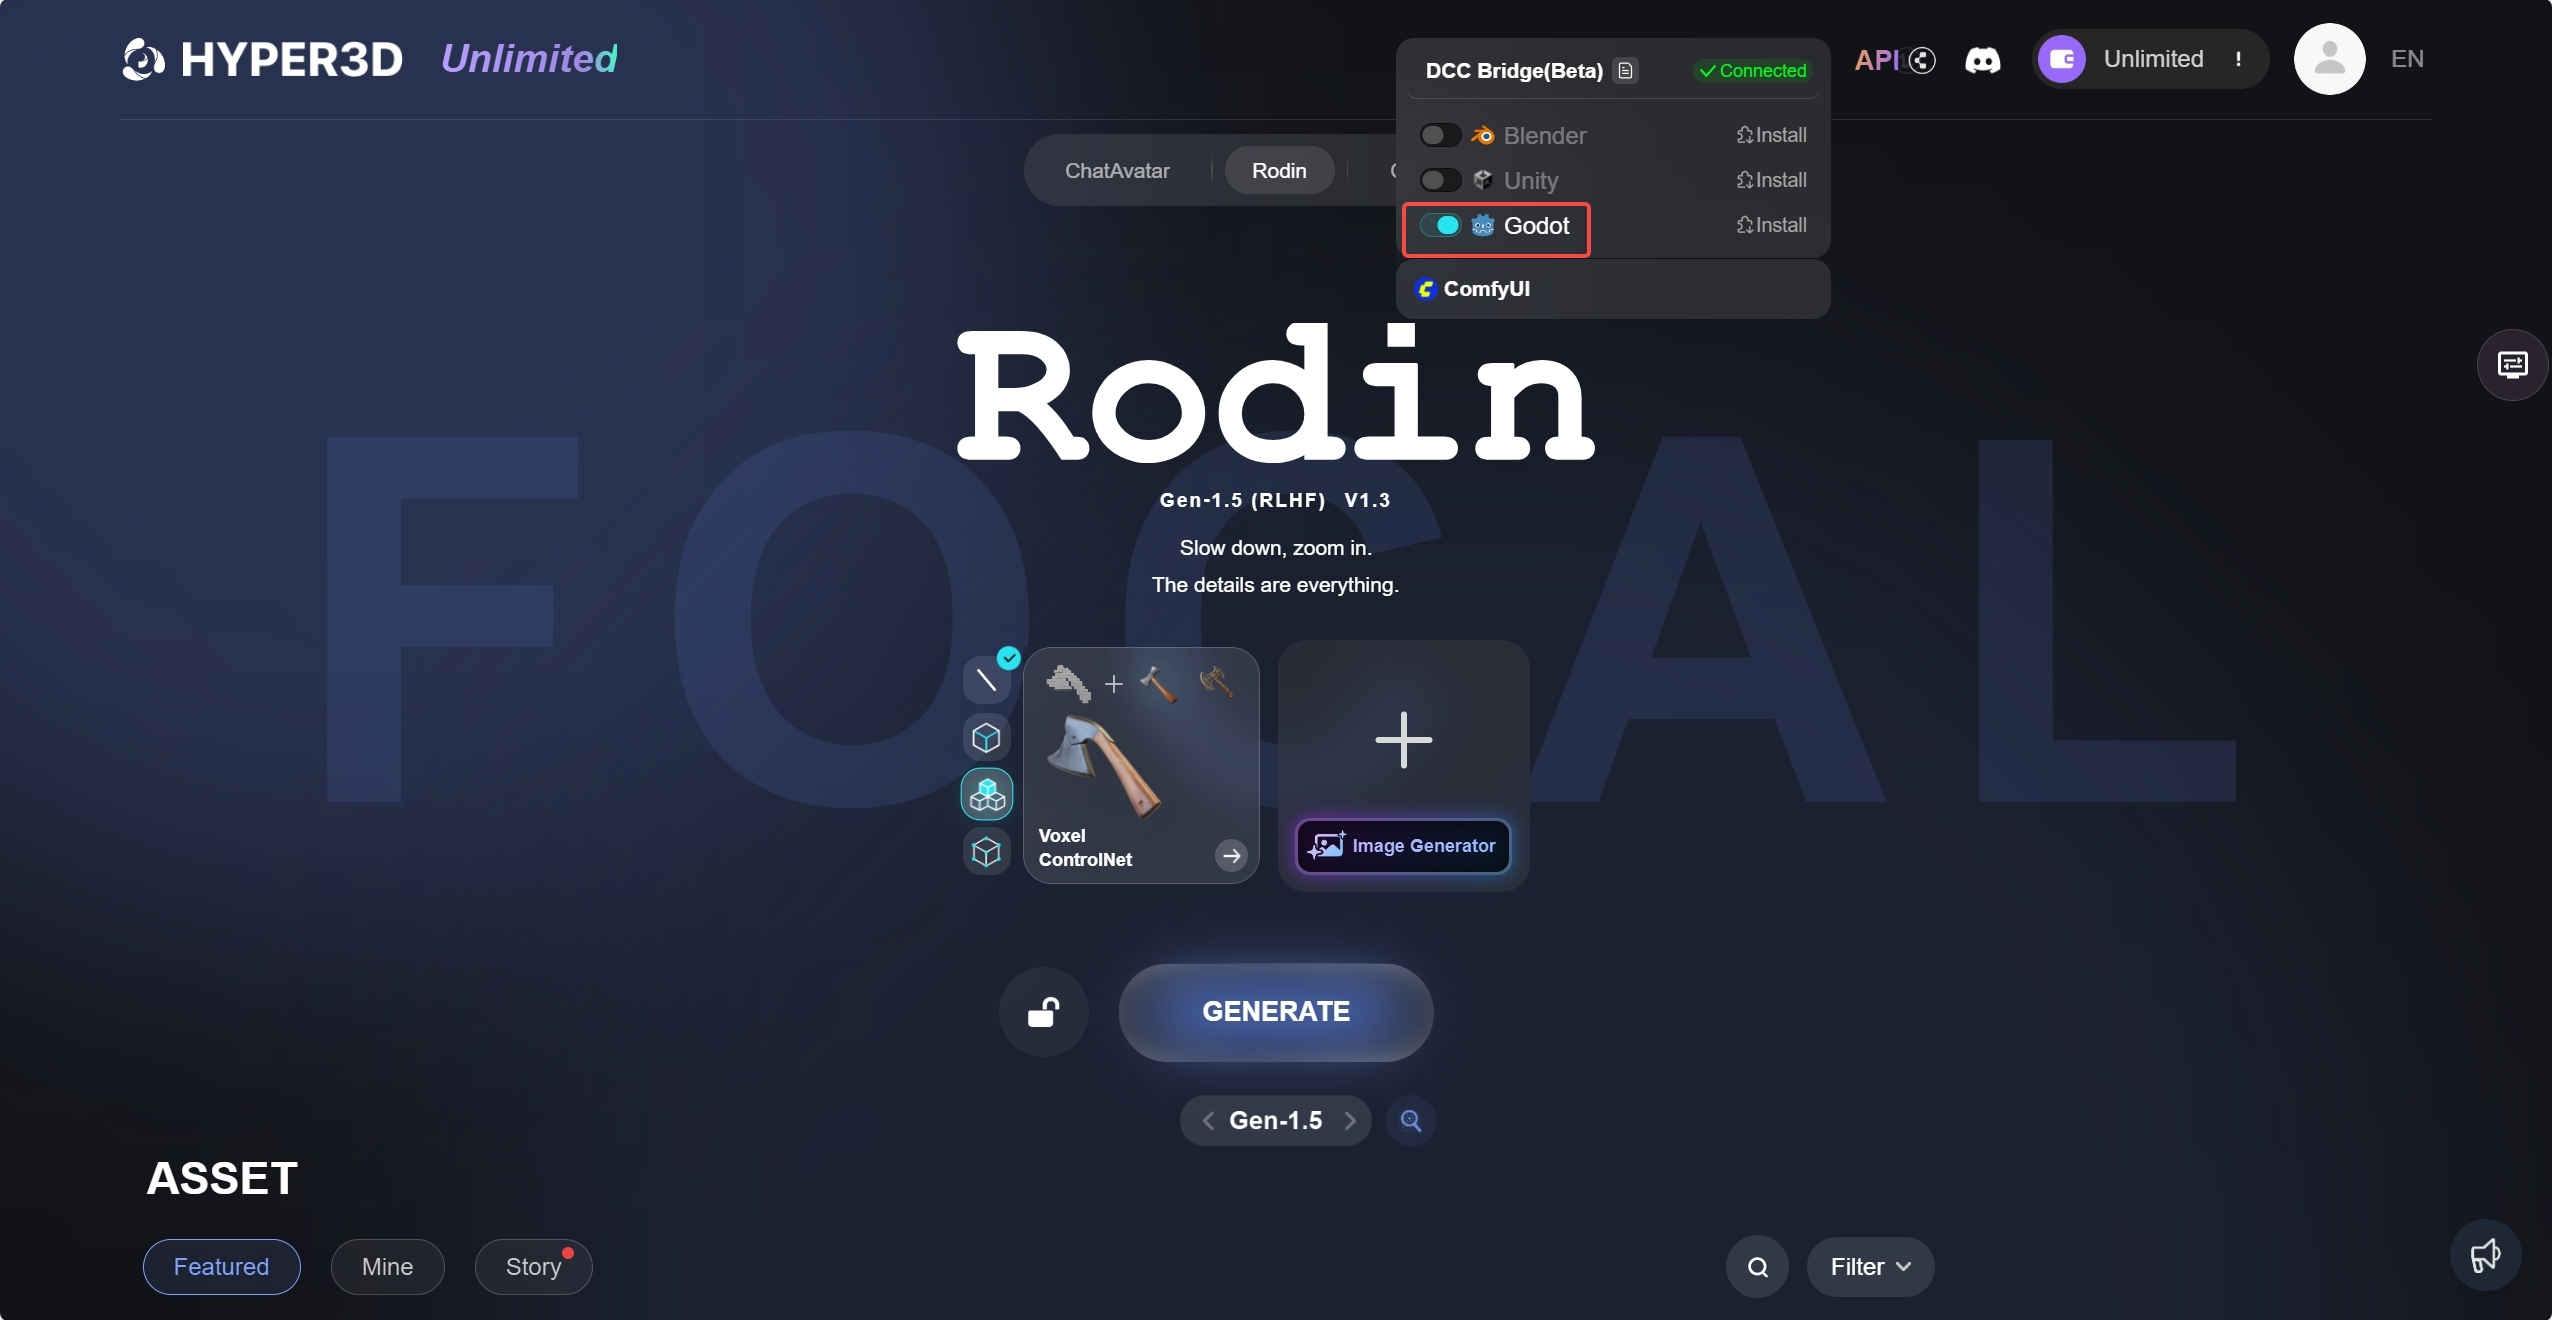
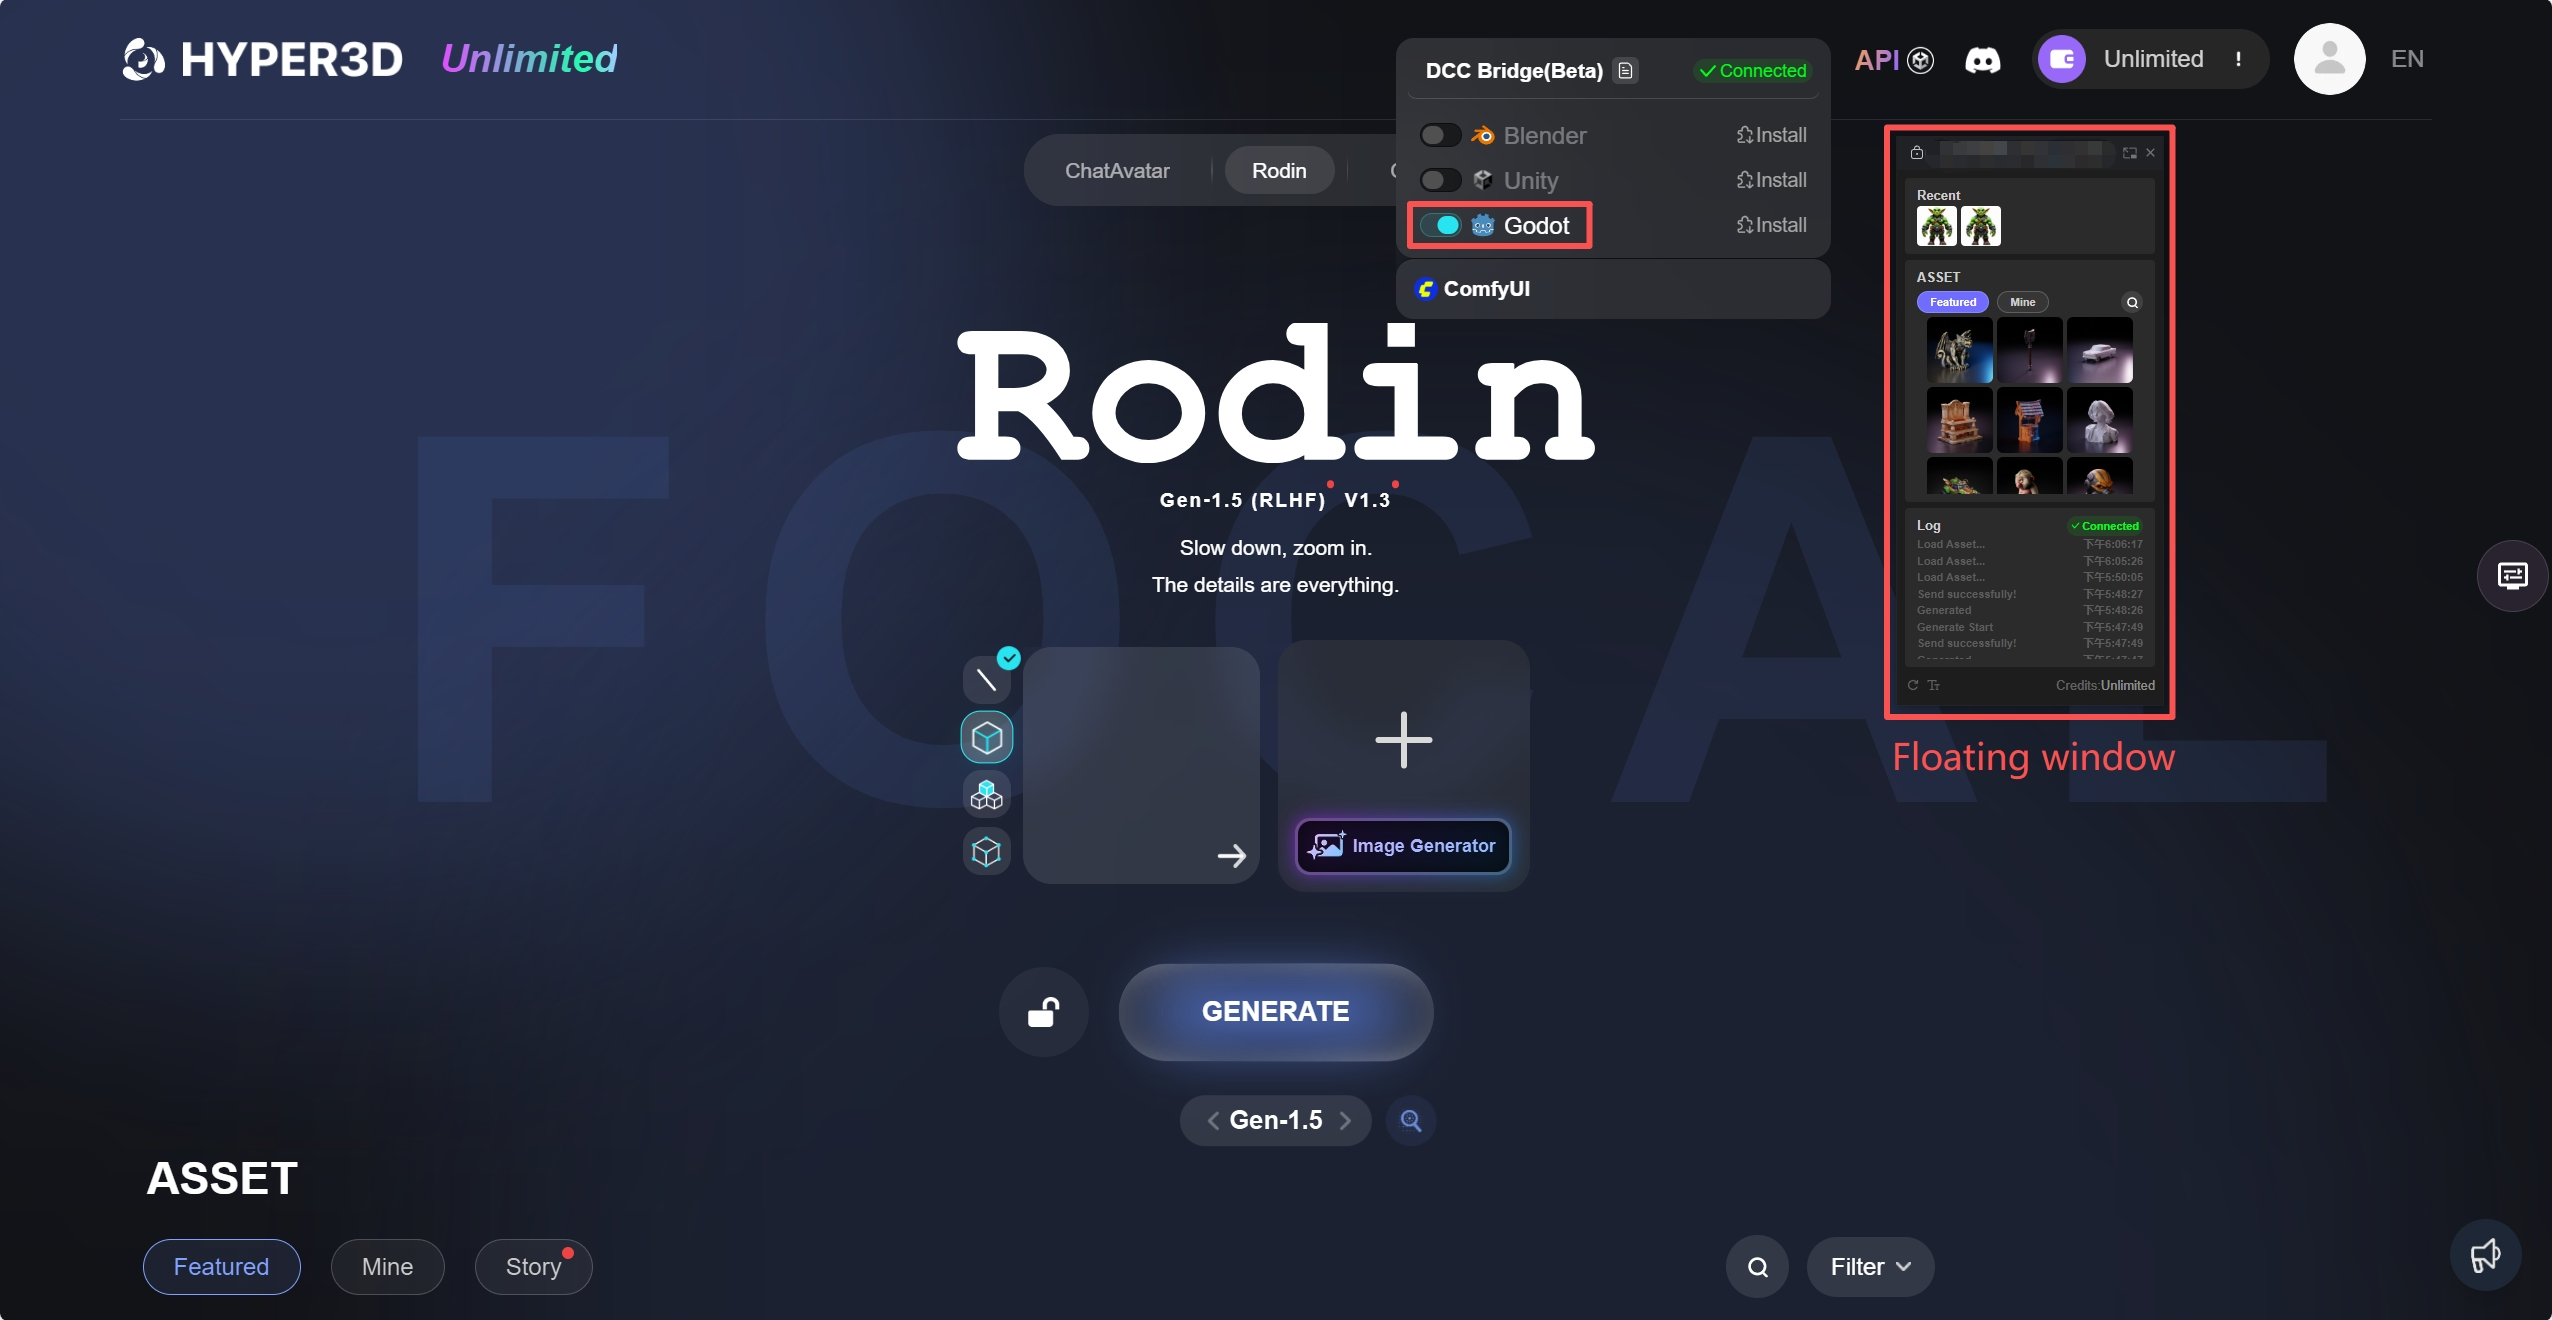
Update readme

diff --git a/README.md b/README.md
@@ -39,6 +39,12 @@ The RodinBridge integrates most Rodin's generation functions directly in Godot. 
 
 **Single Image Generation**
 
+1. Click 'Replace Image' to replace the default image with the image you want to generate the 3D asset with.
+2. Choose 'None' in ControlNet options and choose 'One Click' for the fastest generation experience. The rest of the settings are identical to those on Rodin webpage.
+3. Once they are adjusted, click 'Submit' to begin the process.
+![Single Image Generate](source/SingleImage.jpg)
+
+
 The Rodin webpage will automatically appear if not already open. On the Rodin webpage, activate the floating window using the toggle switch.
 
 
@@ -48,15 +54,21 @@ You can monitor the generation process in the floating window. The generated ass
 
 You can also import featured assets or generated assets by hovering on the target asset and press the emerged **Export** button
 
+![floating window](source/floatingwindow.png)
+
 ### Advanced Functions:
 
 **ControlNet:**
 
-To enable ControlNet, select an object in Blender and choose your desired ControlNet mode. You can the adjest ControlNet settings as needed (Identical to Rodin webpage settings).
+To enable ControlNet, select an object in scene and choose your desired ControlNet mode. You can the adjest ControlNet settings as needed (Identical to Rodin webpage settings).
+
+![Controlnet Mode](source/Controlnet.jpg)
 
 **Multiview Mode:**
 
-You can use 'Add Image' to add more images as the input for generation. Rodin will automatically process them as the input for multiview generation.
+You can use 'Load Image' to add more images as the input for generation. Rodin will automatically process them as the input for multiview generation.
+
+![Multiview Mode](source/Multi.jpg)
 
 **Generation Mode:**
 
@@ -64,5 +76,9 @@ You can choose between **One Click** mode and **Manual mode**.
 
 **One Click**: Process runs without step-by-step guidance.
 
+![OneClick](source/OneClick.jpg)
+
 **Manual**: Requires step-by-step operation in the floating window. The process is identical to that on Rodin webpage.
+
+![Manual](source/Manul.jpg)
 
